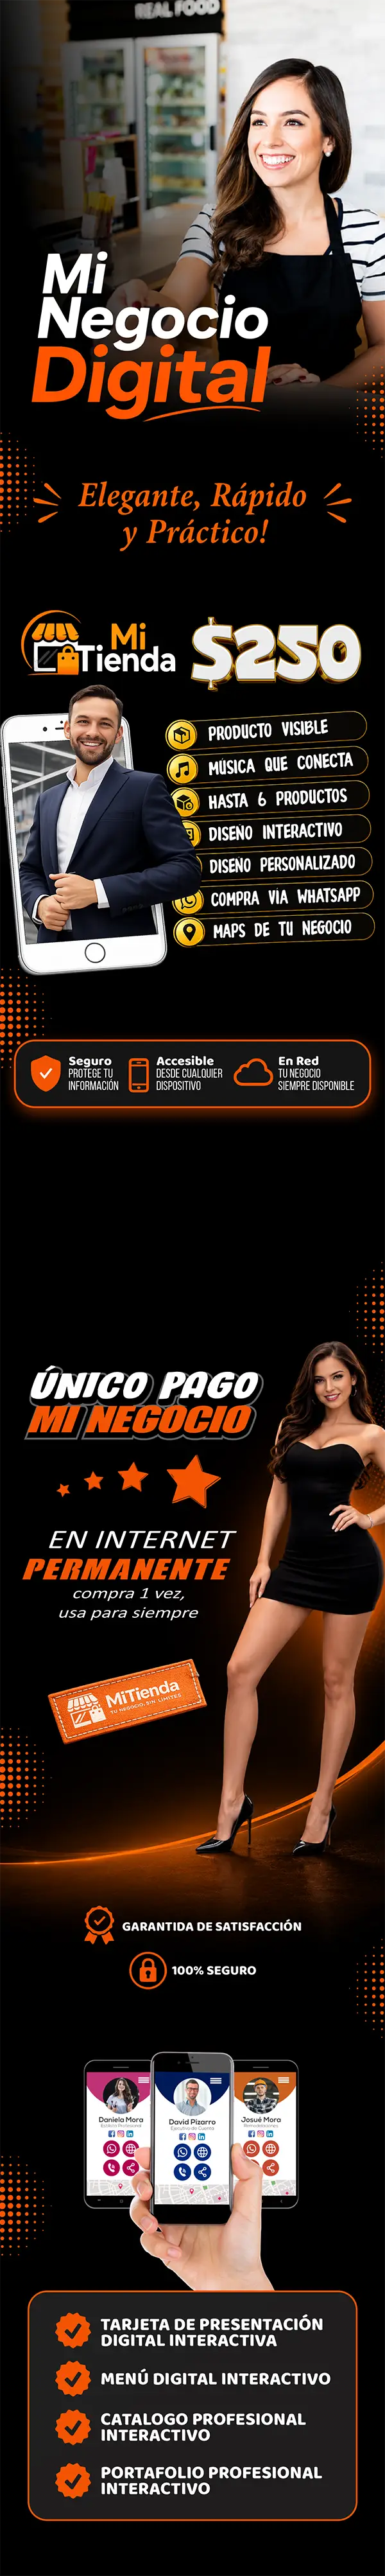
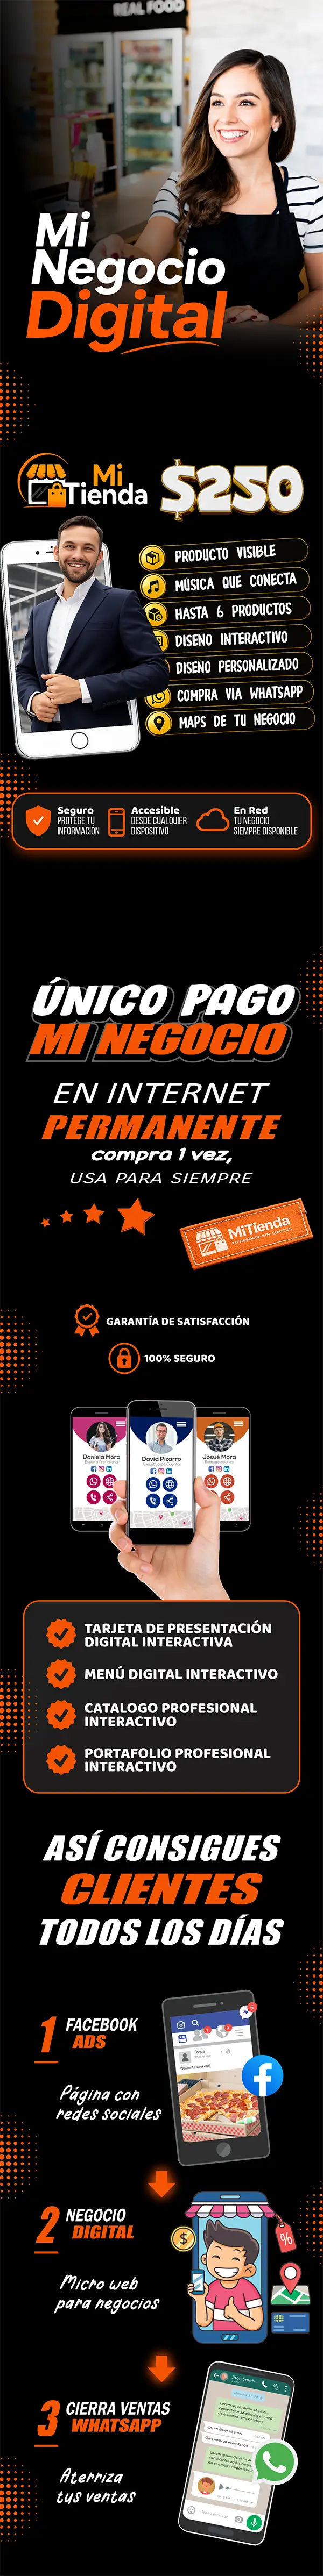
S

diff --git a/index.html b/index.html
@@ -75,11 +75,15 @@
             </div>
 
 
-            <div class="pst_absolute w_100 hpx_150" style=" top: 0%;  "  id="play"></div>
+
+            <center class="pst_absolute w_100" style=" top: 13.5%; ">
+
+                <img src="ley.svg" class="w_100 max_wpx_280 animate__animated animate__pulse animate__infinite" >
+
+            </center>
 
 
 
-            
 
 
 
@@ -143,7 +147,7 @@
             </div>-->
 
 
-            <a class="pst_absolute text_center w_100 hpx_150 d_block" style=" top: 42%;  "
+            <a class="pst_absolute text_center w_100 hpx_150 d_block" style=" top: 31.8%;  "
             href="https://api.whatsapp.com/send?phone=5212229129934&text=Quiero%20mi%20negocio%20digital%20permanente" target="_blank">
               <img src="bt_whatsapp.webp" class="w_100 max_wpx_280 animate__animated animate__pulse animate__infinite" >
             </a>
@@ -202,10 +206,12 @@
                 </div>
             </div>
         </footer>
-
-
-
-
+        
+        
+        
+        <a href="https://api.whatsapp.com/send?phone=+5212229129934&amp;text=Hola,%20vi%20tu%20trabajo%20y%20me%20interesa" class="whatsapp-float" target="_blank" style="left: 20px; transform: none; margin-left: 0px;">
+            <img src="wat.png" alt="WhatsApp" class="whatsapp-icon">
+        </a>
 
 
 
@@ -450,6 +456,125 @@ document.getElementById("sello").addEventListener("click", function() {
     $(window).scrollTop(0);
 });
 $(window).scrollTop(0);
+
+
+
+
+
+
+
+
+
+
+
+
+
+
+
+
+
+
+
+
+
+
+
+
+
+
+
+
+
+
+
+function controlWhatsAppButton() {
+    const whatsappButton = document.querySelector('.whatsapp-float');
+    const content = document.querySelector('.content');
+    
+    if (!whatsappButton || !content) return;
+    
+    function updateButtonPosition() {
+        const contentRect = content.getBoundingClientRect();
+        const windowWidth = window.innerWidth;
+        const buttonWidth = 80;
+        const margin = 40;
+        
+        // Si la pantalla es muy pequeña, ajustar márgenes
+        const adjustedMargin = windowWidth < 400 ? 20 : margin;
+        
+        // Calcular la posición izquierda del contenedor más el margen
+        let leftPosition = contentRect.left + adjustedMargin;
+        
+        // Asegurar que el botón no se salga del contenedor ni de la pantalla
+        const maxLeft = Math.min(
+            contentRect.right - buttonWidth - adjustedMargin,
+            windowWidth - buttonWidth - 10
+        );
+        const minLeft = Math.max(contentRect.left + adjustedMargin, 10);
+        
+        const finalLeft = Math.min(Math.max(leftPosition, minLeft), maxLeft);
+        
+        whatsappButton.style.left = finalLeft + 'px';
+        whatsappButton.style.transform = 'none';
+        whatsappButton.style.marginLeft = '0';
+    }
+    
+    // Actualizar posición en scroll y resize con debounce
+    let resizeTimeout;
+    function handleResize() {
+        clearTimeout(resizeTimeout);
+        resizeTimeout = setTimeout(updateButtonPosition, 100);
+    }
+    
+    window.addEventListener('scroll', updateButtonPosition);
+    window.addEventListener('resize', handleResize);
+    
+    // Posición inicial con delay para asegurar que el DOM esté listo
+    setTimeout(updateButtonPosition, 100);
+}
+
+function createStarEffect(x, y) {
+    const star = document.createElement('div');
+    star.className = 'star-animation';
+    star.style.left = x + 'px';
+    star.style.top = y + 'px';
+    star.style.width = '20px';
+    star.style.height = '20px';
+    
+    document.body.appendChild(star);
+    
+    setTimeout(() => {
+        star.remove();
+    }, 5500);
+}
+
+
+function initializeEventHandlers() {
+    // Ejemplo de evento para crear efecto de estrella al hacer clic
+    document.addEventListener('click', function(event) {
+        if (event.target.classList.contains('centered-image')) {
+            createStarEffect(event.clientX, event.clientY);
+        }
+    });
+}
+
+
+document.addEventListener('DOMContentLoaded', function() {
+    initializeEventHandlers();
+    controlWhatsAppButton(); // Añadido para controlar el botón de WhatsApp
+});
+
+
+
+
+
+
+
+
+
+
+    
+
 
 
 

diff --git a/styles.css b/styles.css
@@ -628,3 +628,49 @@ body {
     z-index: 5;
     left: 65% !important;
 }
+
+
+
+
+.whatsapp-float {
+    position: fixed;
+    width: 80px;
+    height: 80px;
+    bottom: 30px;
+    left: 50%;
+    transform: translateX(-50%);
+    margin-left: -360px;
+    background-color: #25d366;
+    border-radius: 50%;
+    display: flex;
+    align-items: center;
+    justify-content: center;
+    box-shadow: 0 4px 12px rgba(0, 0, 0, 0.15);
+    z-index: 10;
+    transition: all 0.3s ease;
+    animation: pulse_wats 2s infinite;
+}
+
+.whatsapp-icon {
+    width: 80px;
+    height: 80px;
+}
+
+.whatsapp-float:hover {
+    transform: scale(1.1);
+    box-shadow: 0 6px 20px rgba(37, 211, 102, 0.4);
+}
+
+
+
+@keyframes pulse_wats {
+    0% {
+        box-shadow: 0 0 0 0 rgba(37, 211, 102, 0.7);
+    }
+    70% {
+        box-shadow: 0 0 0 10px rgba(37, 211, 102, 0);
+    }
+    100% {
+        box-shadow: 0 0 0 0 rgba(37, 211, 102, 0);
+    }
+}